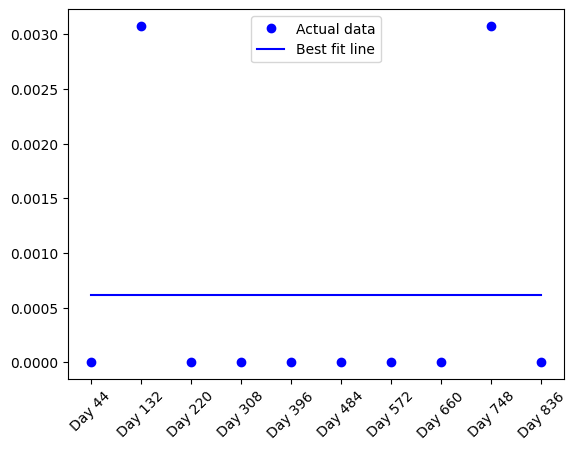
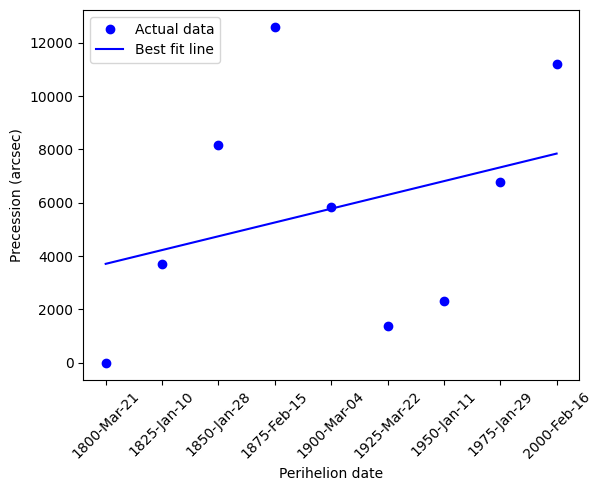
finished

diff --git a/LabFive/perihelion.py b/LabFive/perihelion.py
@@ -53,8 +53,8 @@ def loaddata(filename):
             num = num+1
             if num % 10000 == 0:
                 print(filename,":",num,"line(s)")
-            datum = num2dict(line)
-            data.append(datum)
+            datum = str2dict(line)
+            data.append(datum) 
         else:
             break # for
     if noSOE:
@@ -63,16 +63,30 @@ def loaddata(filename):
         print(filename,":",num,"line(s)")
     return data
 
-def num2dict(line):
-    print(line)
-    pass
-    # strdate = "Day "+str(numdate)
-    # yaph = 6.98169e7 # Aphelion (km)
-    # yprh = 4.60012e7 # Perihelion (km)
-    # days = 87.9691 # Orbit period (d)
-    # sine = (np.cos(2*np.pi*numdate/days)+1)/2
-    # return {'numdate':numdate,'strdate':strdate,
-    #         'coord':(0,yprh+(yaph-yprh)*sine,0)}
+def str2dict(line):
+    lineList = line.split(',')
+    
+    lineList.pop(5)
+    for i in range(4):
+        lineList[-i] = float(lineList[-i])
+    # for i in range(len(lineList)):
+    #     print(f'number {i}:   _{lineList[i]}_')
+    numdate = lineList[0]
+    strdateAD = lineList[1].split(' ')
+    strdate = strdateAD[2]
+    coord = (lineList[2],lineList[3],lineList[4])
+#     print(f'''
+# the numdate is: {numdate}
+# the strdate is: {strdate}
+# the coord is: {coord}
+#           ''')
+#     print(type(numdate))
+#     print(type(strdate))
+#     print(type(coord))
+#     print(type(coord[0]))
+#     quit()
+    return {'numdate':numdate,'strdate':strdate,
+            'coord':coord}
 
 def locate(data1):
     dist = [] # Vector lengths
@@ -87,9 +101,14 @@ def locate(data1):
     return data2
 
 def select(data,ystep,month):
-    if len(data) > 10:
-        data = data[0:10]
-    return data
+    newData = [] 
+    for i in range(len(data)):
+        strData = data[i]["strdate"]
+        splitData = strData.split("-")
+        splitData[0] = int(splitData[0])
+        if splitData[1] in month  and (splitData[0]%ystep) == 0:
+             newData.append(data[i])
+    return newData
 
 def makeplot(data,filename):
     (numdate,strdate,arcsec) = precess(data)
@@ -120,6 +139,8 @@ def add2plot(numdate,actual):
     for k in range(len(numdate)):
         bestfit.append(r[0]*numdate[k]+r[1])
     plt.plot(numdate,bestfit,'b-')
-    plt.legend(["Actual data","Best fit line"])
+    plt.xlabel("Perihelion date")
+    plt.ylabel("Precession (arcsec)")
+    plt.legend(["Actual data","Best fit line"], loc = 'upper left')
 
 main()
